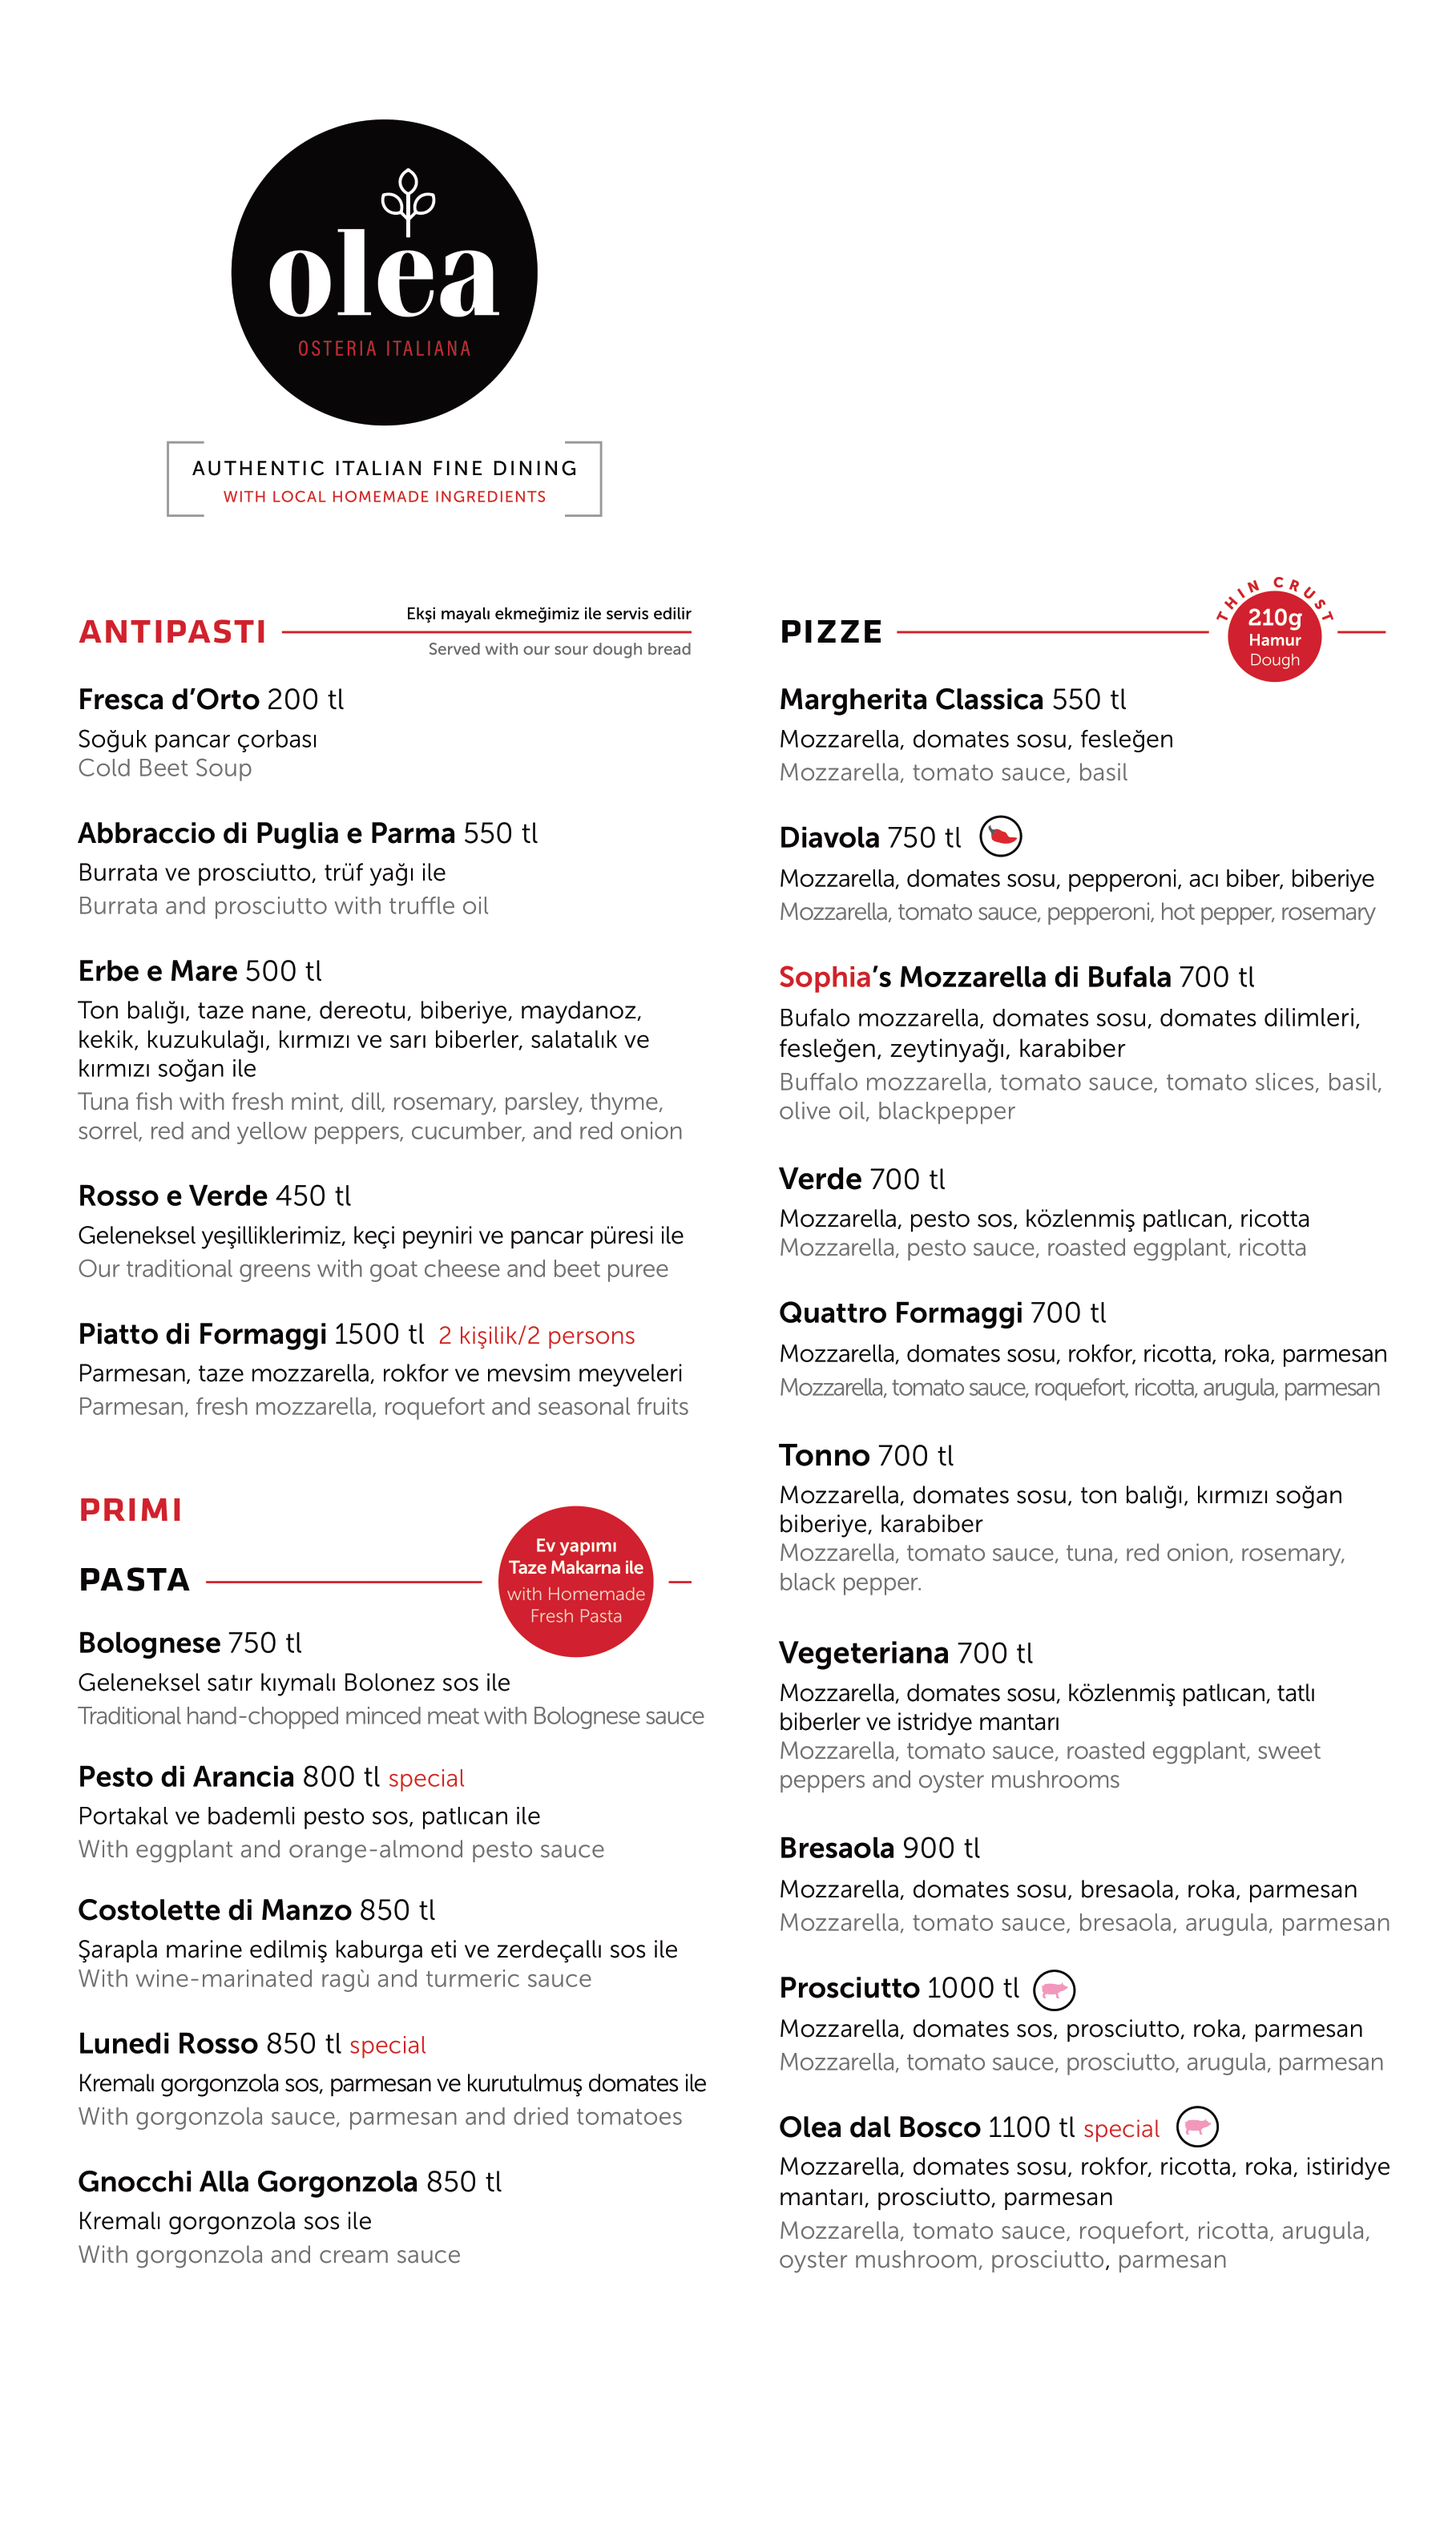
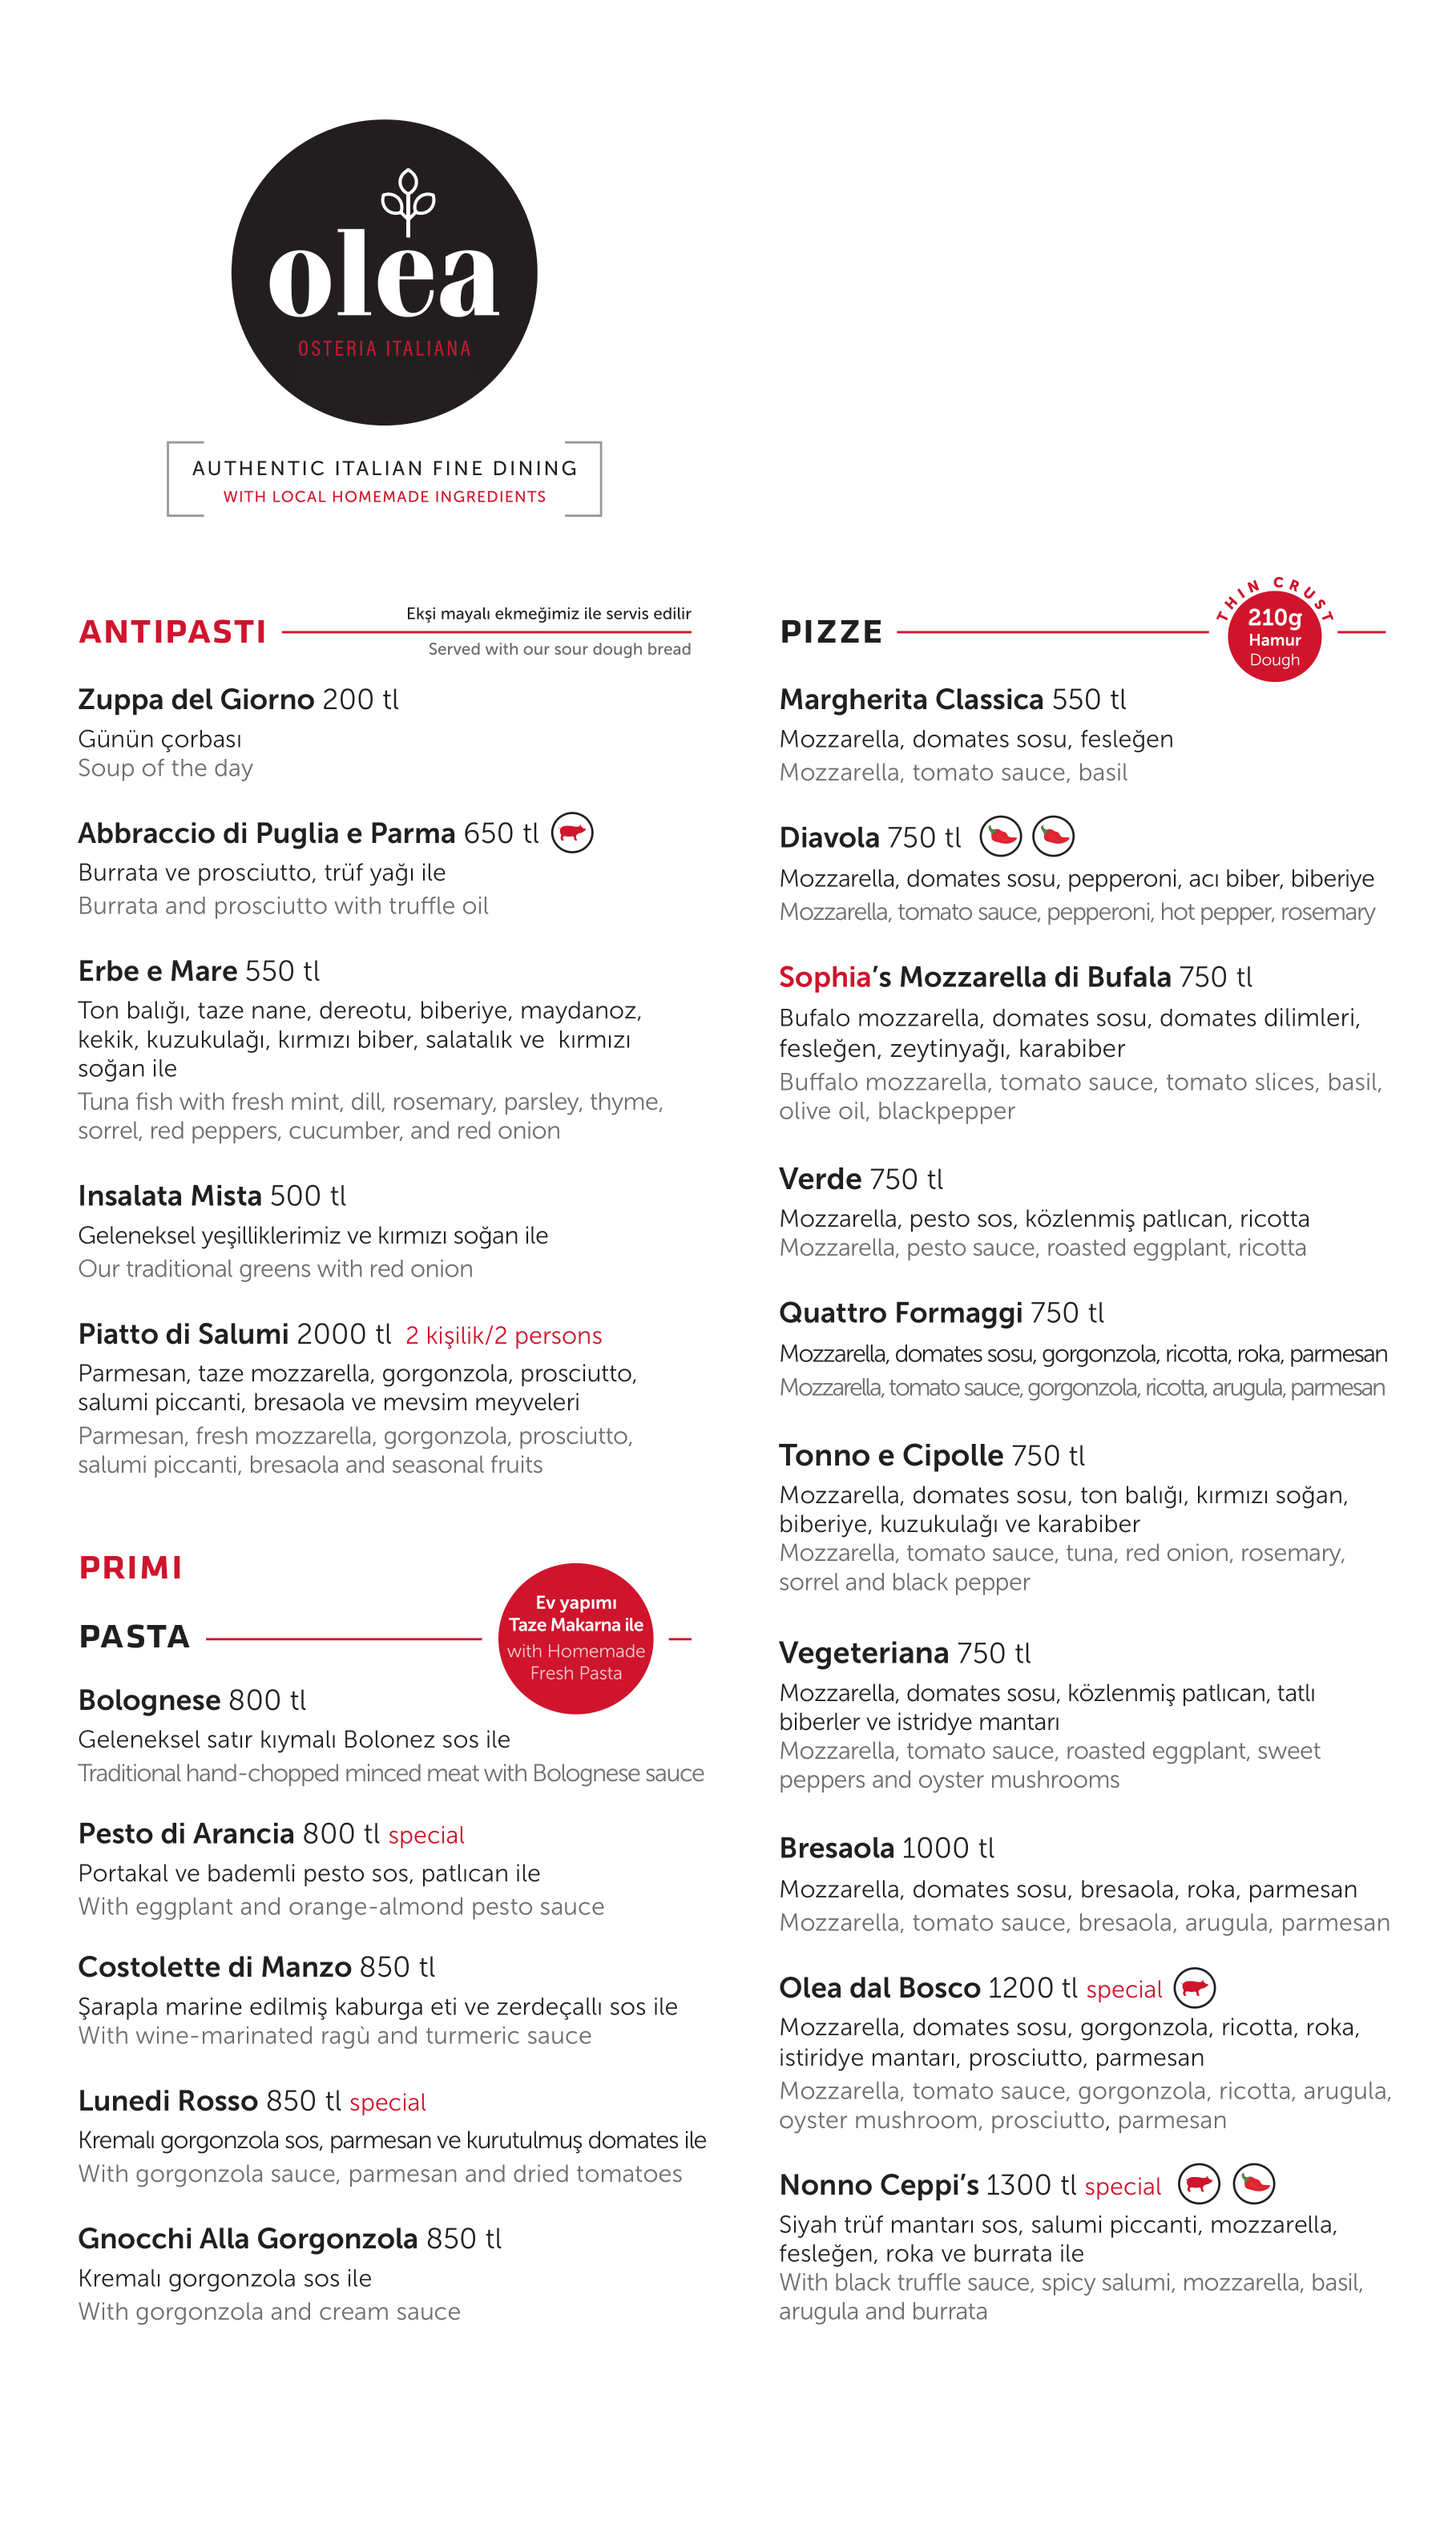
:hammer_and_pick: Update menu & menu visuals for 2025

diff --git a/src/components/menu/page.tsx b/src/components/menu/page.tsx
@@ -4,21 +4,17 @@ import {S} from "./page.styles";
 import tagliataManzo2 from "../../assets/menu/tagliata-di-manzo2.jpg";
 import oleaDalBosco from "../../assets/menu/olea-dal-bosco.jpg";
 import lasagnaAlForno from "../../assets/menu/lasagna-al-forno.jpg";
-import polloRipieno from "../../assets/menu/pollo-ripieno.jpg";
 import digestifs from "../../assets/menu/digestifs.jpg";
 import tiramisu from "../../assets/menu/tiramisu.jpg";
 import lunediRosso from "../../assets/menu/lunedi-rosso.jpg";
 import selectiveWines from "../../assets/menu/selective-wines.jpg";
 import tagliataManzo from "../../assets/menu/tagliata-di-manzo.jpg";
-import frescaDorto from "../../assets/menu/fresca-dorto.jpg";
 import degistifs2 from "../../assets/menu/degistifs2.jpg";
-import fegatiniDiPollo from "../../assets/menu/fegatini-di-pollo-alla-veneziana.jpg";
 import filettoDiSalmone from "../../assets/menu/filetto-di-salmone.jpg";
 import pestoDiArancia from "../../assets/menu/pesto-di-arancia.jpg";
 import abbraccioDiPuglia from "../../assets/menu/abbraccio-di-puglia-e-parma.jpg";
 import cocktails from "../../assets/menu/cocktails.jpg";
 import rossoEVerde from "../../assets/menu/rosso-e-verde.jpg";
-import semiFreddo from "../../assets/menu/semi-freddo.jpg";
 import {Flex} from "antd";
 import { useTranslation } from "react-i18next";
 
@@ -26,21 +22,17 @@ const menuImages = [
   {src: tagliataManzo2, alt: "Tagliata di Manzo"},
   {src: oleaDalBosco, alt: "Olea dal Bosco"},
   {src: lasagnaAlForno, alt: "Lasagna al Forno"},
-  {src: polloRipieno, alt: "Pollo Ripieno"},
   {src: digestifs, alt: "Digestifs"},
   {src: tiramisu, alt: "Tiramisu"},
   {src: lunediRosso, alt: "Lunedi Rosso"},
   {src: selectiveWines, alt: "Selective Wines"},
   {src: tagliataManzo, alt: "Tagliata di Manzo"},
-  {src: frescaDorto, alt: "Fresca d'Orto"},
   {src: degistifs2, alt: "Digestifs"},
-  {src: fegatiniDiPollo, alt: "Fegatini di Pollo alla Veneziana"},
   {src: filettoDiSalmone, alt: "Filetto di Salmone"},
   {src: pestoDiArancia, alt: "Pesto di Arancia"},
   {src: abbraccioDiPuglia, alt: "Abbraccio di Puglia e Parma"},
   {src: cocktails, alt: "Cocktails"},
   {src: rossoEVerde, alt: "Rosso e Verde"},
-  {src: semiFreddo, alt: "Semi Freddo"}
 ];
 
 const handleMenuClick = (action: string) => {
